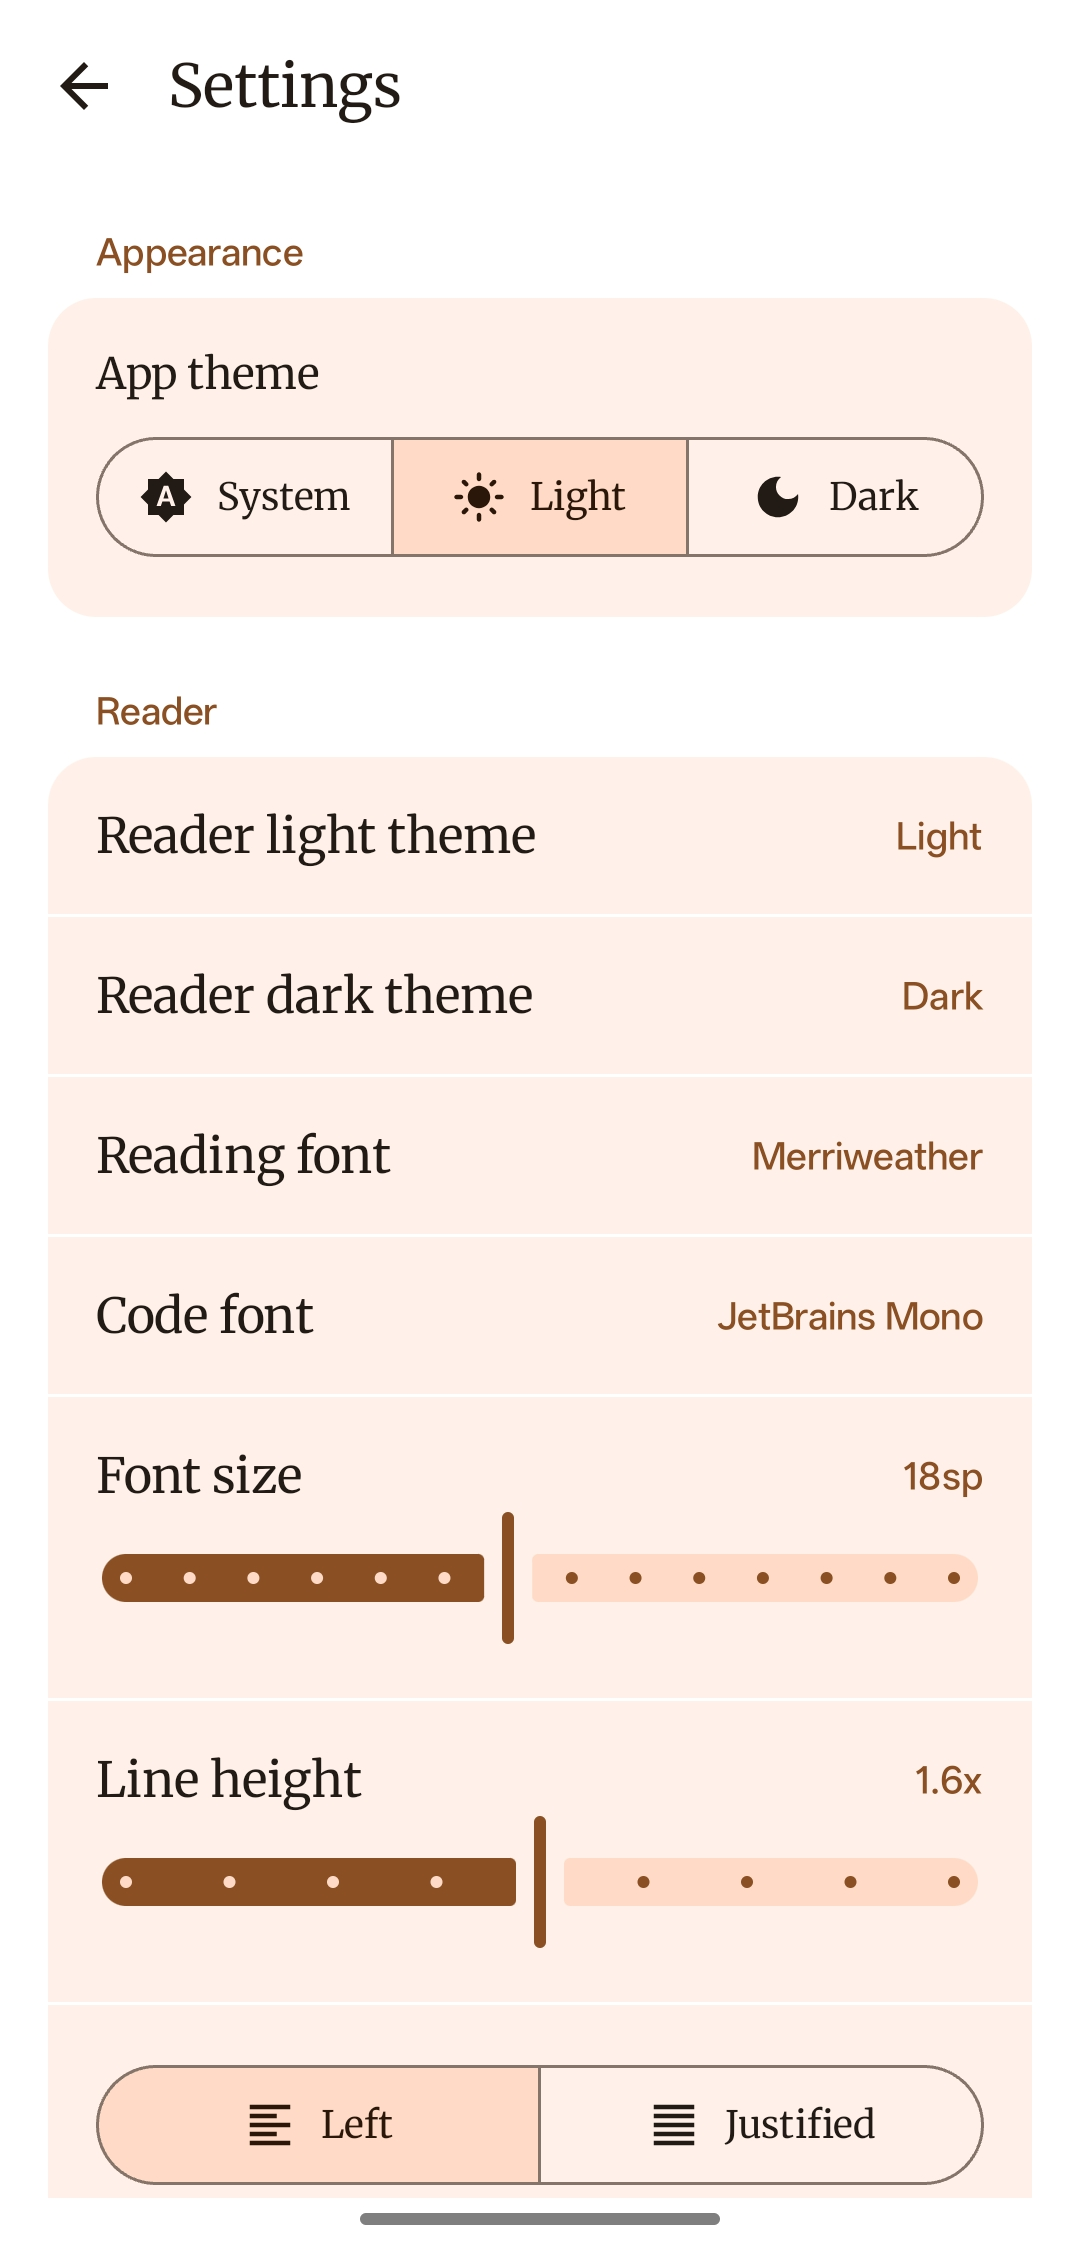
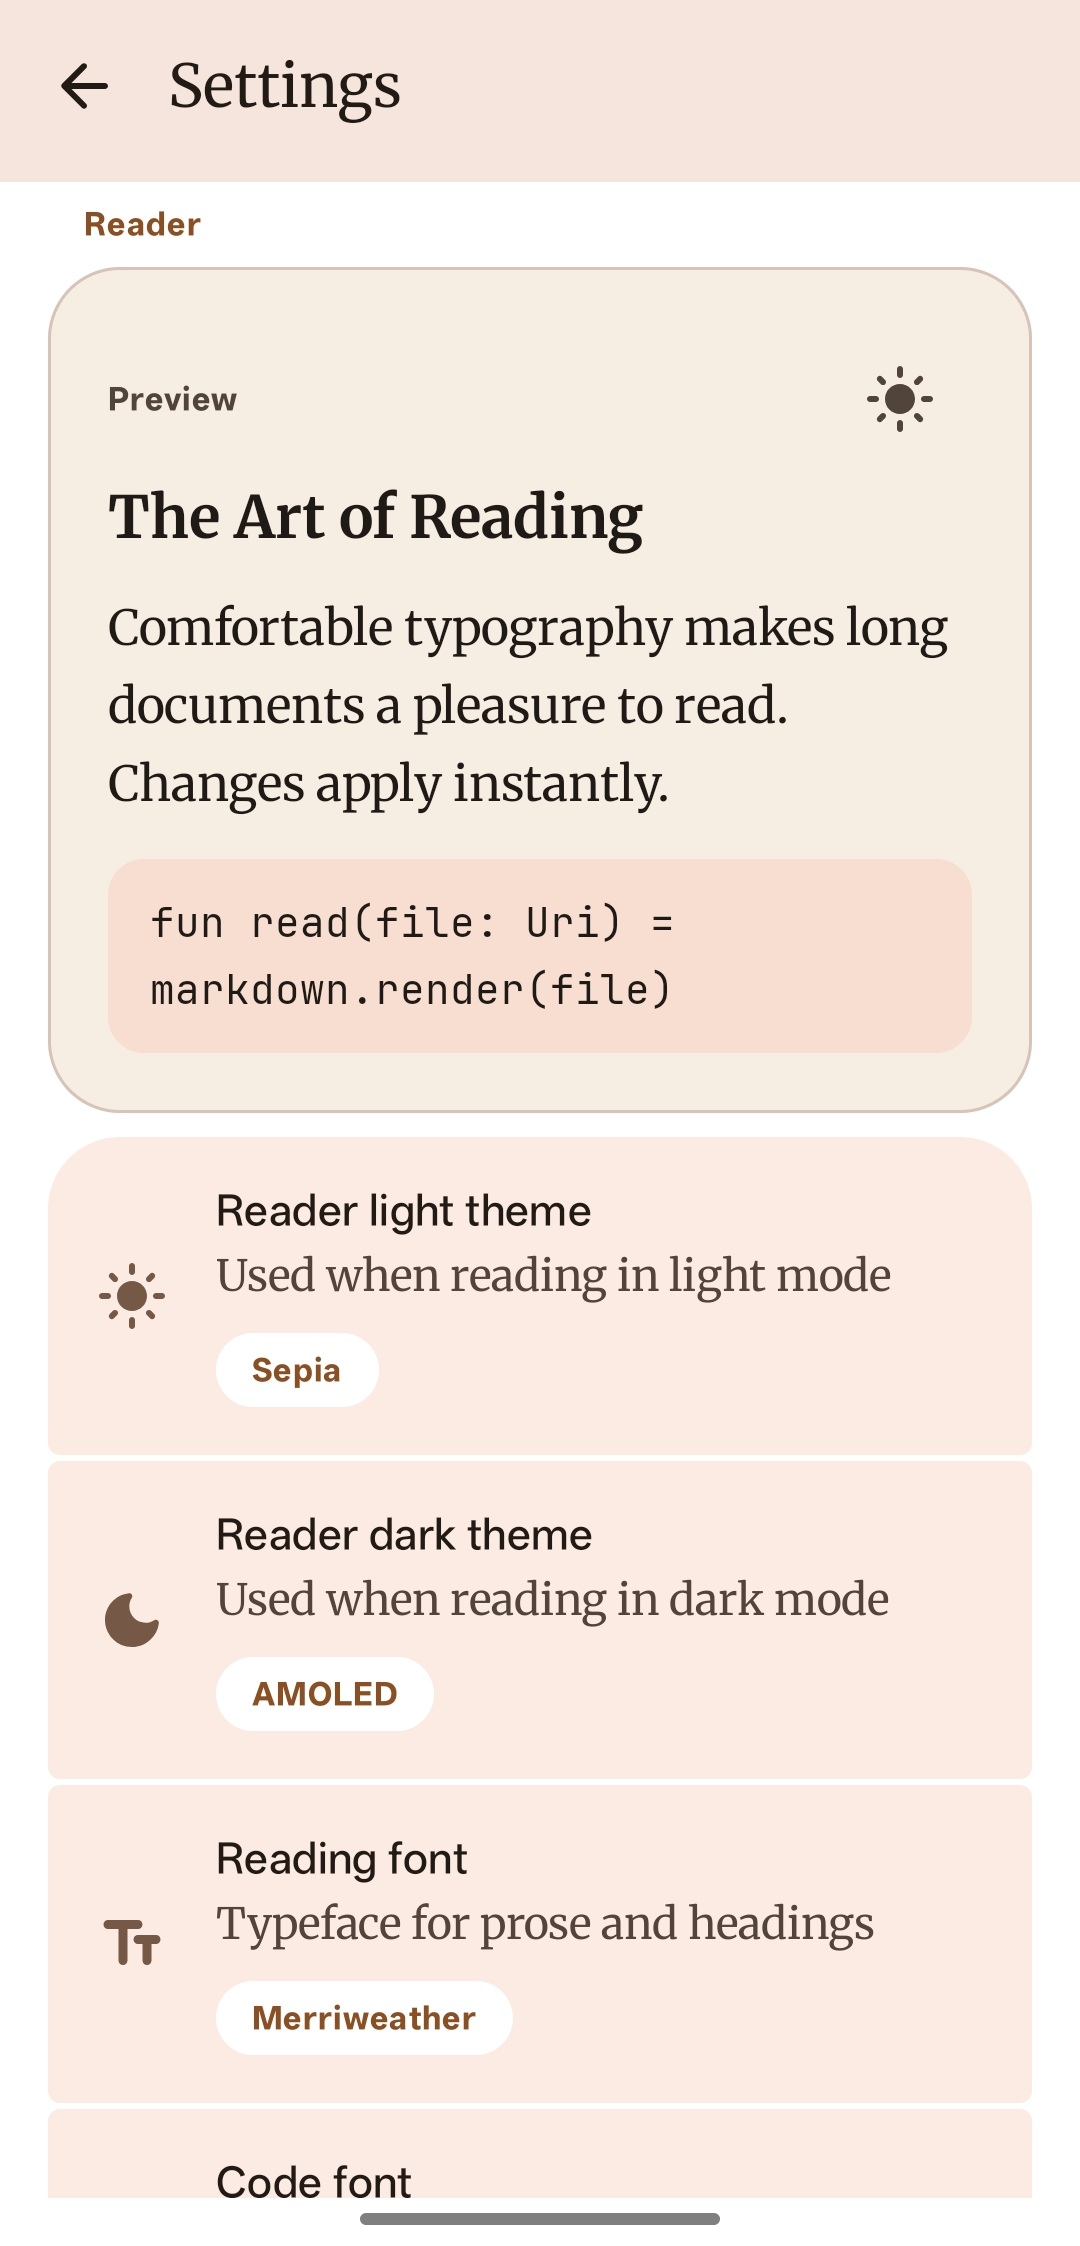
chore(release): v1.0.1 (#6)

diff --git a/README.md b/README.md
@@ -31,12 +31,12 @@ A lightweight, offline markdown and code file reader for Android with syntax hig
 ## Screenshots
 
 <p align="center">
-  <img src="fastlane/metadata/android/en-US/images/phoneScreenshots/1.png" width="160" alt="Home Screen" />
-  <img src="fastlane/metadata/android/en-US/images/phoneScreenshots/2.png" width="160" alt="Markdown Viewer" />
-  <img src="fastlane/metadata/android/en-US/images/phoneScreenshots/3.png" width="160" alt="Code Viewer" />
-  <img src="fastlane/metadata/android/en-US/images/phoneScreenshots/4.png" width="160" alt="Editor" />
-  <img src="fastlane/metadata/android/en-US/images/phoneScreenshots/5.png" width="160" alt="Dark Theme" />
-  <img src="fastlane/metadata/android/en-US/images/phoneScreenshots/6.png" width="160" alt="Settings" />
+  <img src="fastlane/metadata/android/en-US/images/phoneScreenshots/1.png" width="200" alt="Home Screen" />
+  <img src="fastlane/metadata/android/en-US/images/phoneScreenshots/2.png" width="200" alt="Markdown Viewer" />
+  <img src="fastlane/metadata/android/en-US/images/phoneScreenshots/3.png" width="200" alt="Table of Contents" />
+  <img src="fastlane/metadata/android/en-US/images/phoneScreenshots/4.png" width="200" alt="Code Viewer" />
+  <img src="fastlane/metadata/android/en-US/images/phoneScreenshots/5.png" width="200" alt="Settings" />
+  <img src="fastlane/metadata/android/en-US/images/phoneScreenshots/6.png" width="200" alt="Dark Theme" />
 </p>
 
 ## Download

diff --git a/CHANGELOG.md b/CHANGELOG.md
@@ -3,6 +3,15 @@
 All notable changes to MarkReader are documented in this file.
 Format follows [Keep a Changelog](https://keepachangelog.com/en/1.0.0/).
 
+## [1.0.1] - 2026-07-14
+
+### Added
+- Live reader preview in Settings, rendering sample prose and code with your actual colors, fonts, size, spacing, and alignment, with a light/dark toggle
+- GitHub repository link in the About section
+
+### Improved
+- Redesigned Settings screen with Material 3 expressive UI: grouped rows with leading icons and animated value badges, a collapsing top app bar, restyled picker sheets, and haptic feedback on selections
+
 ## [1.0.0] - 2026-04-08
 
 ### Added